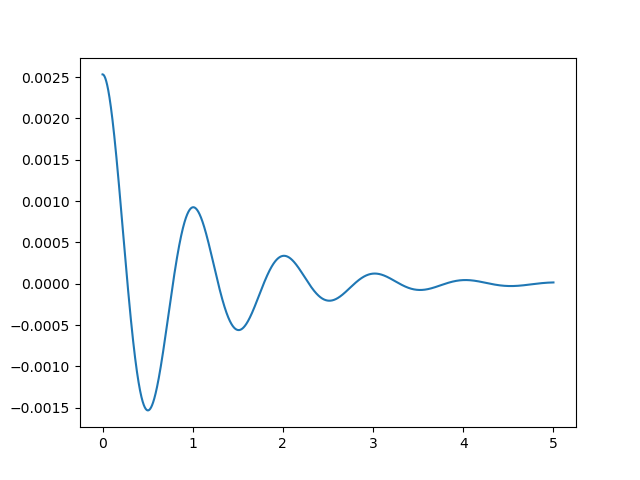
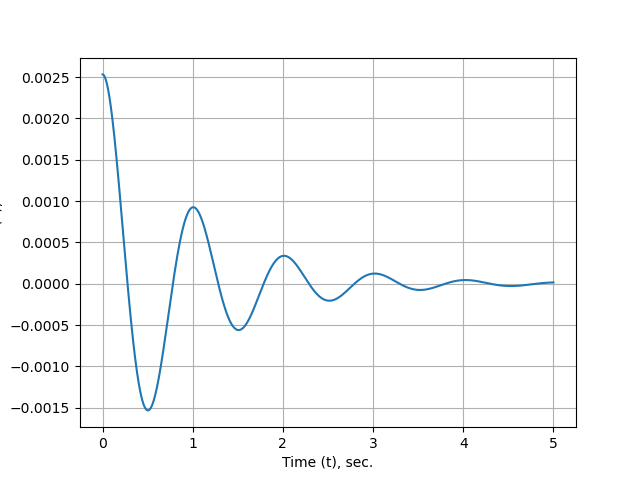
Edited task_3_4.py.

diff --git a/task_3_4.py b/task_3_4.py
@@ -33,6 +33,9 @@ arr_t = np.array([i for i in np.linspace(t0, t1, 10000)])
 
 arr_x = A * np.exp(-gamma * arr_t) * np.cos(w * arr_t + fi)
 
-plt.plot(arr_t, arr_x)
+plt.xlabel("Time (t), sec.")
+plt.ylabel("Coordinate (x), m.")
 
+plt.plot(arr_t, arr_x)
+plt.grid()
 plt.savefig('plot_task_3_4.png')
